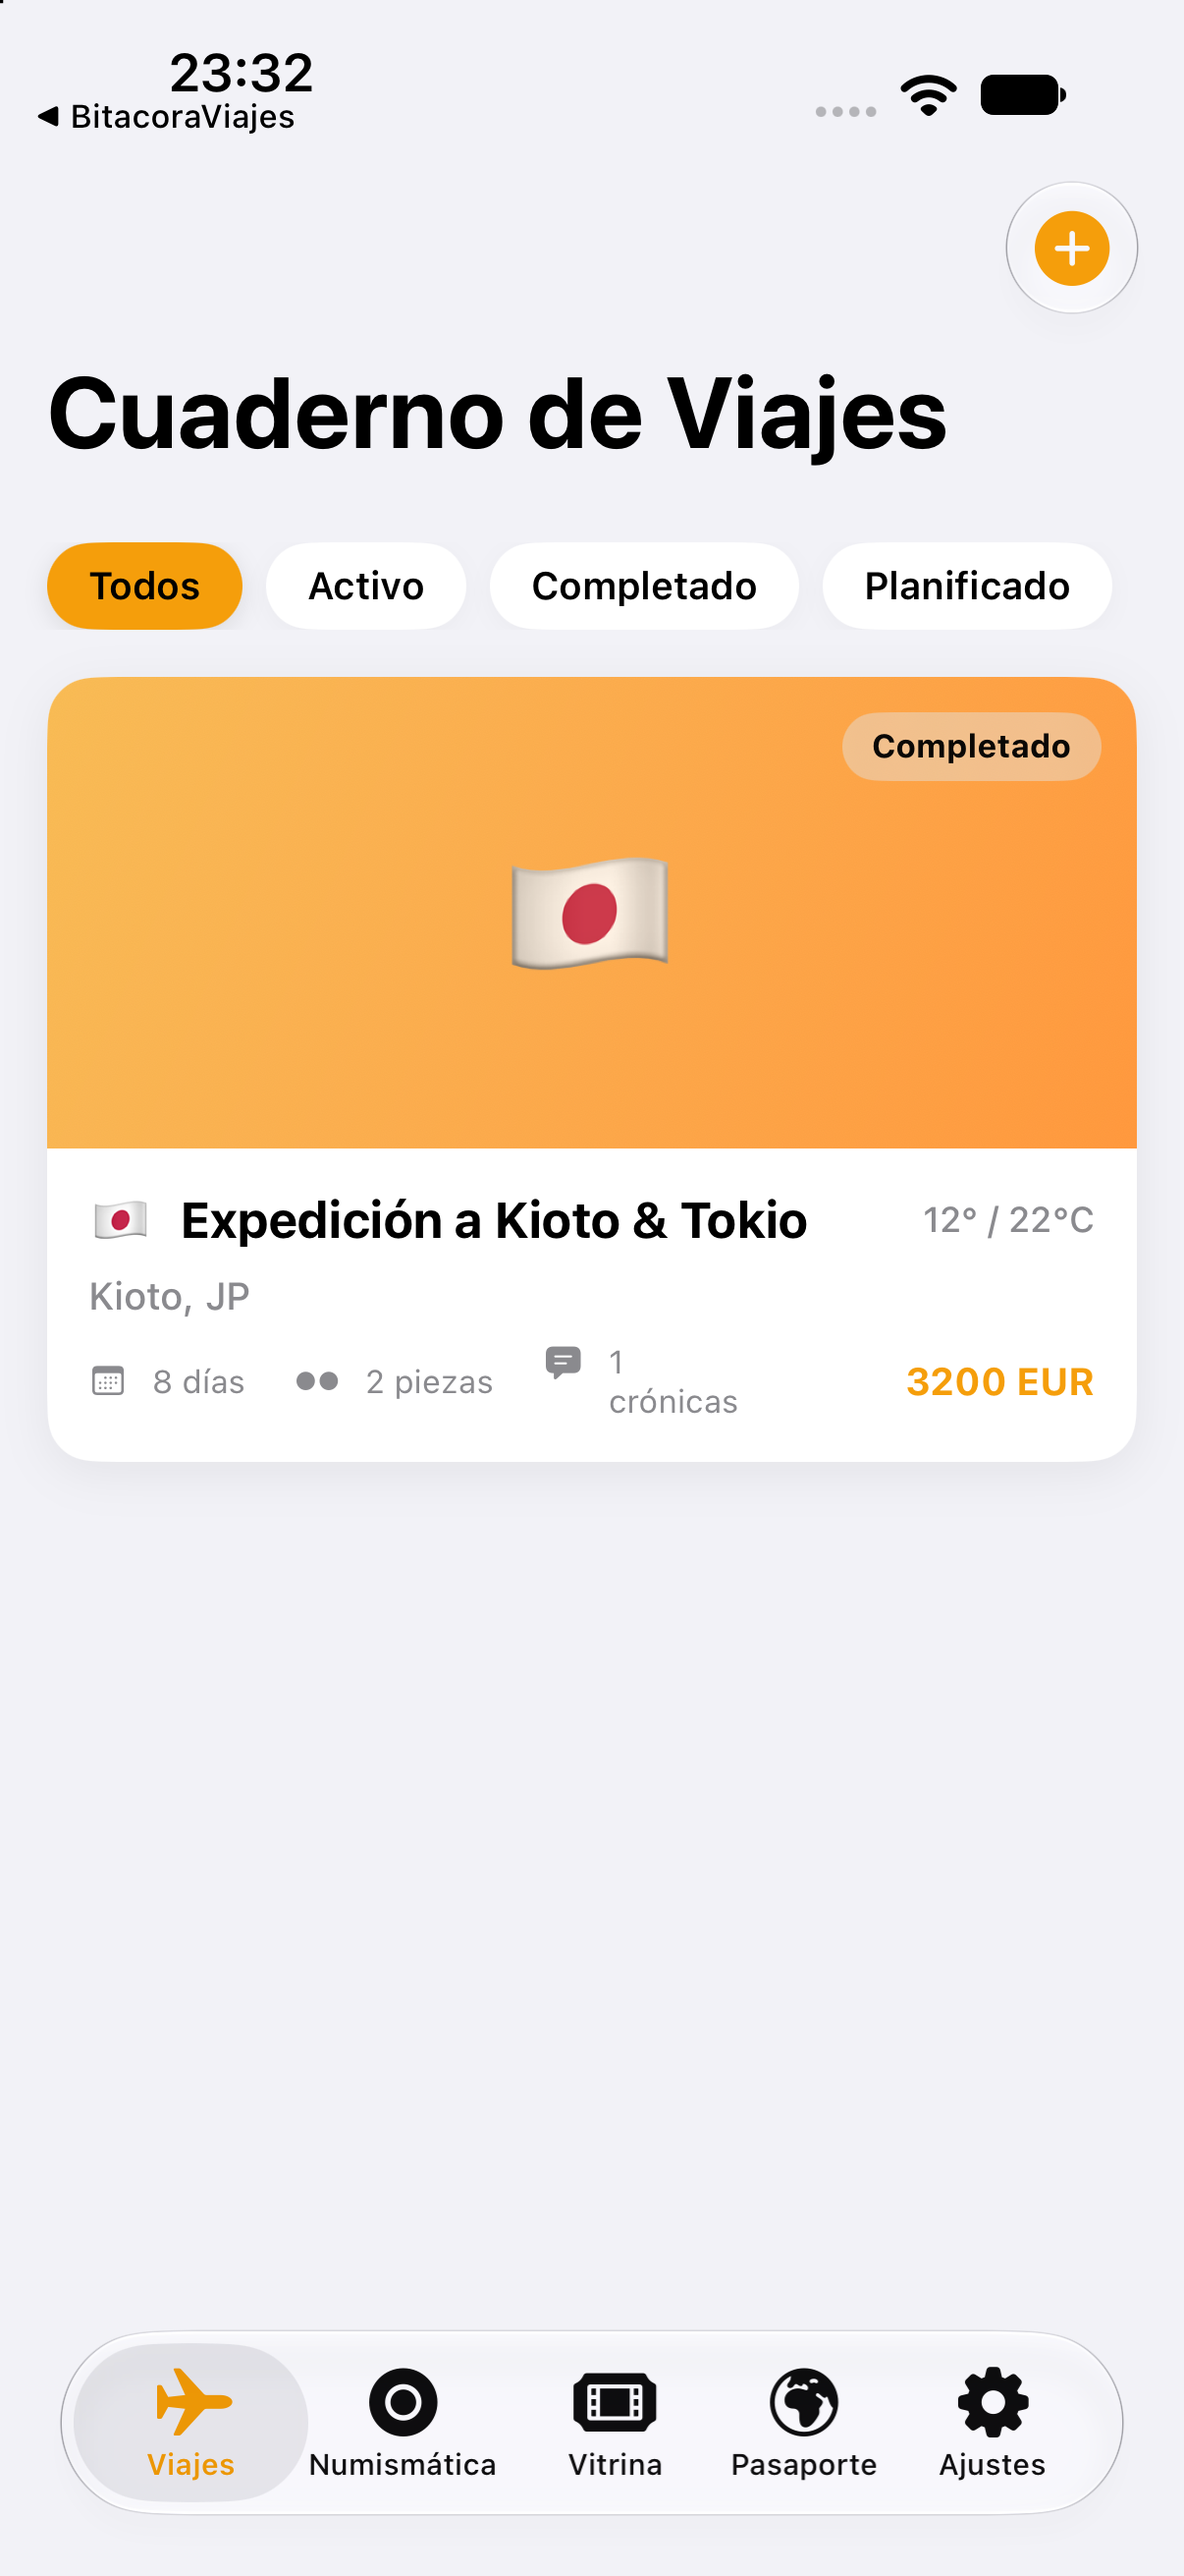
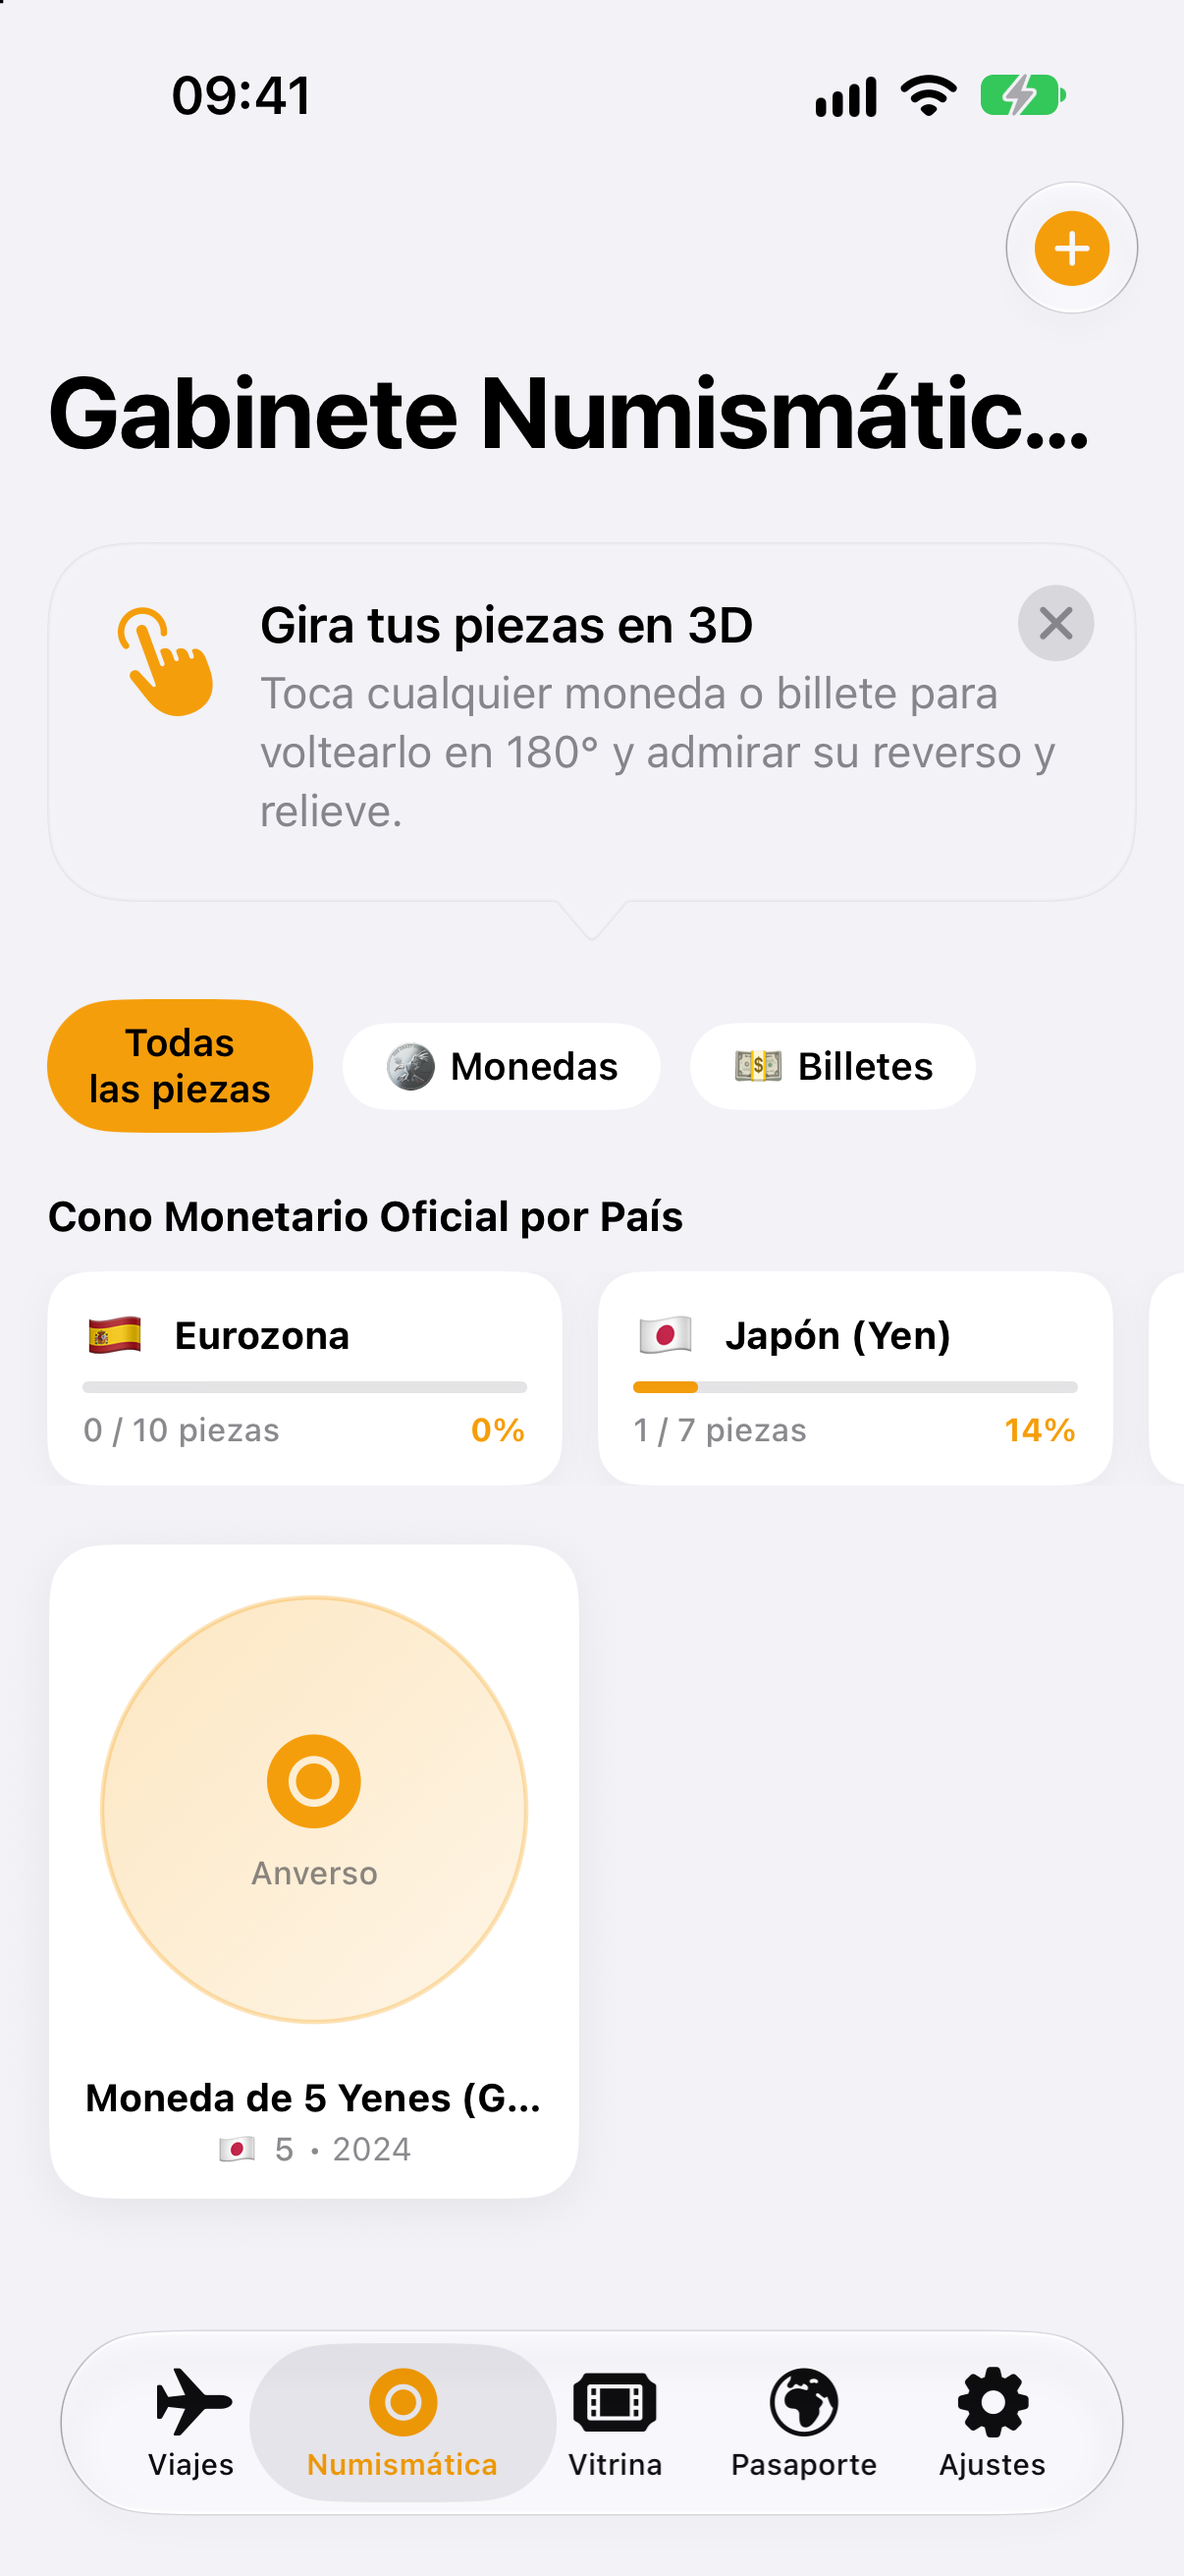
docs: replace screenshots with distinct screens and pristine status bar

diff --git a/BitacoraViajes/Views/ContentView.swift b/BitacoraViajes/Views/ContentView.swift
@@ -6,8 +6,8 @@ public struct ContentView: View {
     @Environment(\.scenePhase) private var scenePhase
 
     @AppStorage("has_completed_onboarding") private var hasCompletedOnboarding: Bool = false
+    @AppStorage("selected_tab_index") private var selectedTab: Int = 0
     @State private var showingOnboarding: Bool = false
-    @State private var selectedTab: Int = 0
     @State private var isUnlocked: Bool = !BiometricAuthService.shared.isBiometricsEnabled
 
     public init() {}
